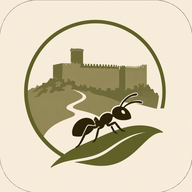
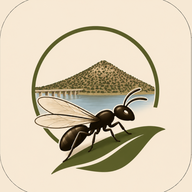
Actualizar icono, rediseñar cabecera de colonia y cambiar color de Archivar

diff --git a/Js/Colonia.js b/Js/Colonia.js
@@ -16,16 +16,7 @@ window.mostrarColonia = function(colonia){
 
     document.getElementById("app").innerHTML = `
 
-<section class="tarjeta">
-
-<button id="btnVolverColonias">
-
-⬅ Volver a colonias
-
-</button>
-
-</section>
-    <section class="tarjeta">
+    <section class="tarjeta cabecera-colonia">
 
 
         <img
@@ -35,39 +26,41 @@ window.mostrarColonia = function(colonia){
         class="foto-colonia">
 
 
+        <div class="info-colonia">
 
-        <h2>🐜 ${colonia.nombre}</h2>
+            <h2>🐜 ${colonia.nombre}</h2>
 
-<p>
-<strong>
-${colonia.archivada ? "📦 Colonia archivada" : "🟢 Colonia activa"}
-</strong>
-</p>
+            <p>
+            <strong>
+            ${colonia.archivada ? "📦 Colonia archivada" : "🟢 Colonia activa"}
+            </strong>
+            </p>
 
-        <p>
+            <p>
 
-        <strong>${colonia.reina.estado}</strong>
+            <strong>${colonia.reina.estado}</strong>
 
-        </p>
-
-
-
-        <p>
-
-        🧬 ${colonia.especie}
-
-        </p>
+            </p>
 
 
 
-        <p>
+            <p>
 
-        📅 Captura:
+            🧬 ${colonia.especie}
 
-        ${colonia.reina.fechaCaptura}
+            </p>
 
-        </p>
 
+
+            <p>
+
+            📅 Captura:
+
+            ${colonia.reina.fechaCaptura}
+
+            </p>
+
+        </div>
 
 
     </section>
@@ -181,7 +174,7 @@ ${colonia.archivada ? "📦 Colonia archivada" : "🟢 Colonia activa"}
             </button>
 
 
-            <button id="btnArchivar" class="boton-accion">
+            <button id="btnArchivar" class="boton-accion" style="background:#E8791E;color:white">
                 <span class="icono-accion">${colonia.archivada ? "♻" : "📦"}</span>
                 <span class="etiqueta-accion">${colonia.archivada ? "Restaurar" : "Archivar"}</span>
             </button>
@@ -417,14 +410,6 @@ ${colonia.archivada ? "📦 Colonia archivada" : "🟢 Colonia activa"}
 
 
     `;
-
-document
-.getElementById("btnVolverColonias")
-.onclick = ()=>{
-
-    mostrarListaColonias();
-
-};
 
 
 

diff --git a/Style.css b/Style.css
@@ -125,6 +125,59 @@ main {
 
 
 /* =========================
+   CABECERA DE FICHA DE COLONIA
+========================= */
+
+
+.cabecera-colonia {
+
+
+    display:flex;
+
+    gap:15px;
+
+    align-items:flex-start;
+
+    flex-wrap:wrap;
+
+
+}
+
+
+
+.cabecera-colonia .foto-colonia {
+
+
+    flex-shrink:0;
+
+
+}
+
+
+
+.cabecera-colonia .info-colonia {
+
+
+    flex:1;
+
+    min-width:150px;
+
+
+}
+
+
+
+.cabecera-colonia .info-colonia p {
+
+
+    margin:6px 0;
+
+
+}
+
+
+
+/* =========================
    ESCRITORIO / WIDGETS
 ========================= */
 
